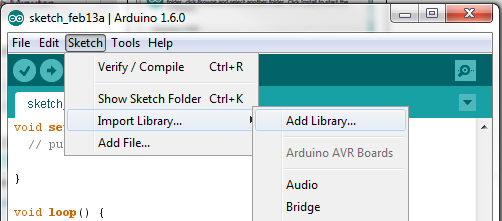
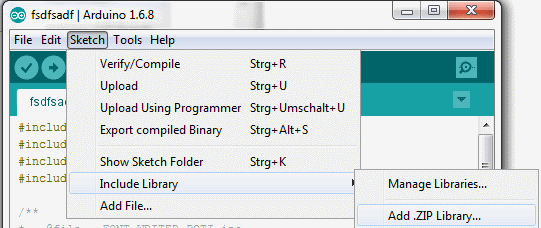
Modification for new Arduino Version

diff --git a/matrix/index.html b/matrix/index.html
@@ -641,8 +641,8 @@
                     oder natürlich im Installationsverzeichnis gefunden und gestartet werden.
                 </td></tr>
                 <tr><td><img src="./assets/images/software-arduino-install10.png" /></td><td>
-                    Importiere die RKAG Matrix Bibliothek in der IDE via <em>Sketch &gt; Import Library &gt;
-                    Add Library</em>
+                    Importiere die RKAG Matrix Bibliothek in der IDE via <em>Sketch &gt; Include Library &gt;
+                    Add .ZIP Library</em>
                 </td></tr>
                 <tr><td><img src="./assets/images/software-arduino-install11.png" /></td><td>
                     Wähle das Archiv mit der aktuellen Version der RKAG_Matrix aus und klick open.
